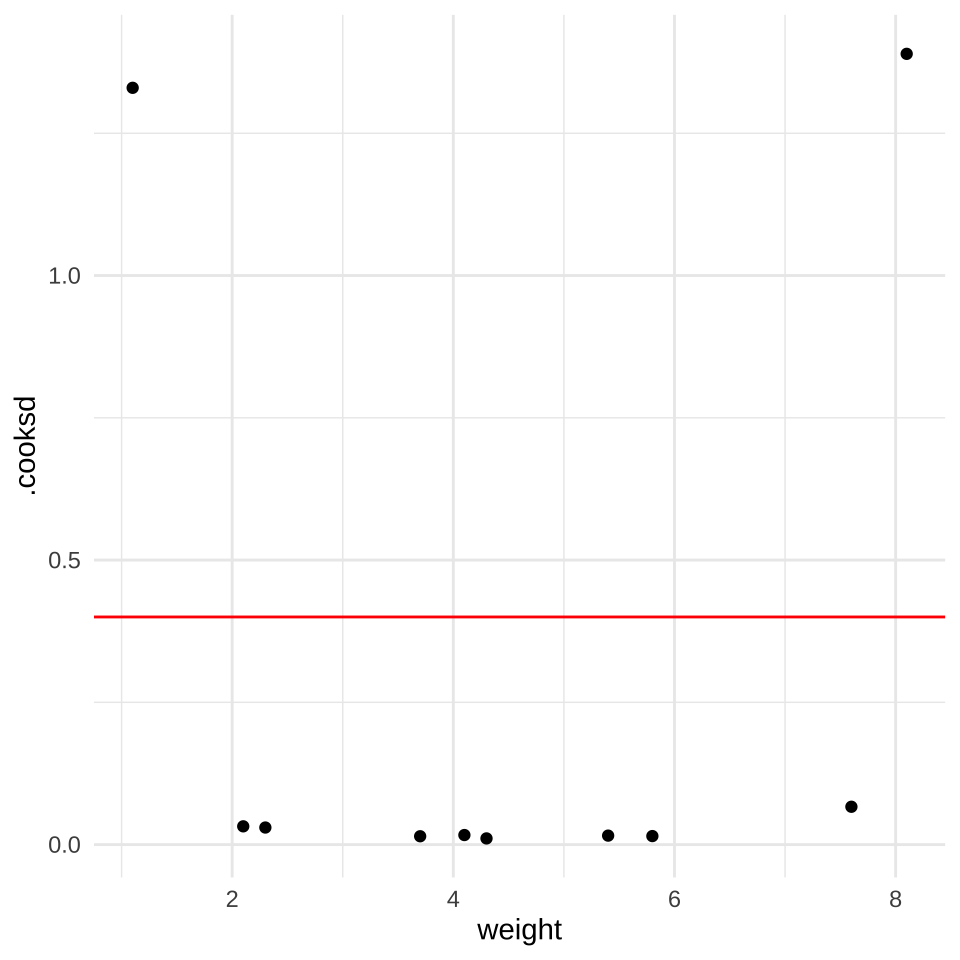
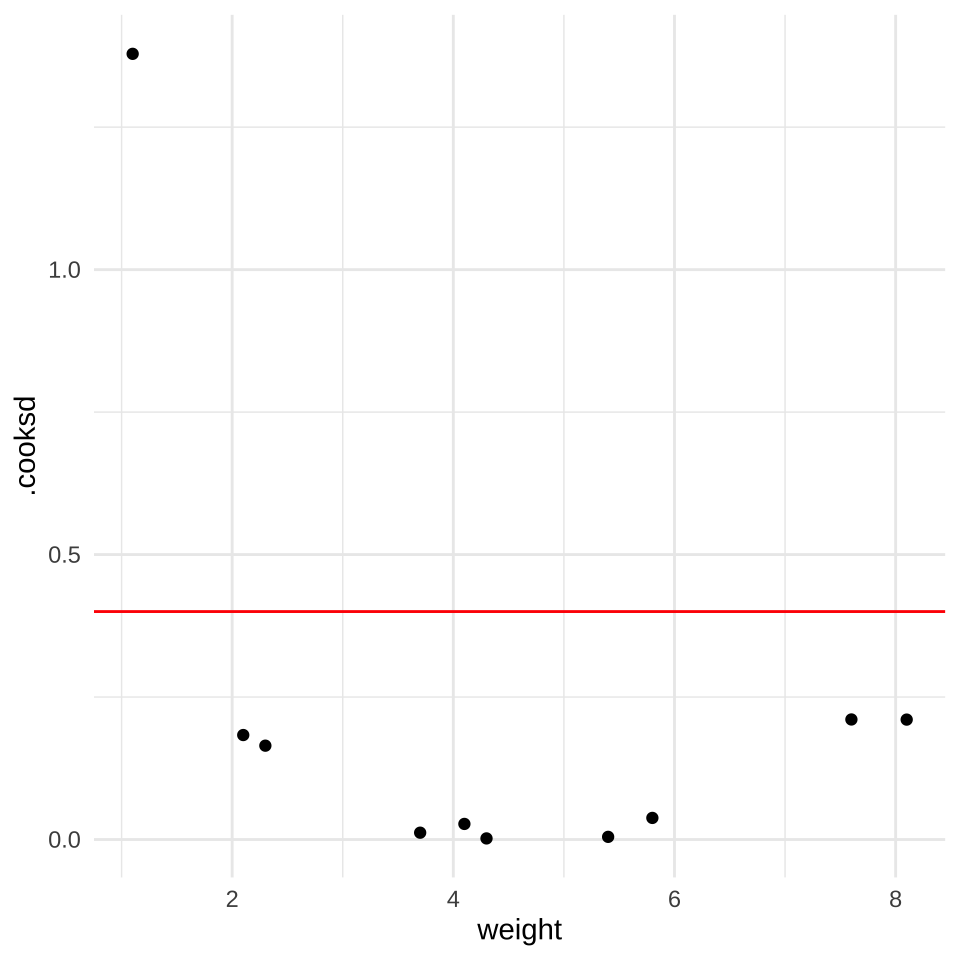
added text and ideas

diff --git a/docs/stat-modeling-outlier.html b/docs/stat-modeling-outlier.html
@@ -752,7 +752,7 @@ div.csl-indent {
 
 </header>
 
-<p><em>Letzte Änderung am 19. January 2024 um 11:20:04</em></p>
+<p><em>Letzte Änderung am 19. January 2024 um 21:16:35</em></p>
 <blockquote class="blockquote">
 <p><em>“You should be far more concentrated with your current trajectory than with your current results” — Atomic Habits’</em></p>
 </blockquote>
@@ -1068,15 +1068,15 @@ Weitere Tutorien für das Finden von Ausreißern
 </tr>
 <tr class="even">
 <td style="text-align: center;">5.1</td>
-<td style="text-align: center;">34</td>
+<td style="text-align: center;">21</td>
 </tr>
 <tr class="odd">
 <td style="text-align: center;">7.9</td>
-<td style="text-align: center;">35</td>
+<td style="text-align: center;">25</td>
 </tr>
 <tr class="even">
 <td style="text-align: center;">3.1</td>
-<td style="text-align: center;">36</td>
+<td style="text-align: center;">31</td>
 </tr>
 <tr class="odd">
 <td style="text-align: center;">4.3</td>
@@ -1101,7 +1101,7 @@ Weitere Tutorien für das Finden von Ausreißern
 <tbody>
 <tr class="odd">
 <td style="text-align: center;">1.1</td>
-<td style="text-align: center;">190</td>
+<td style="text-align: center;">56</td>
 </tr>
 <tr class="even">
 <td style="text-align: center;">2.3</td>
@@ -1121,11 +1121,11 @@ Weitere Tutorien für das Finden von Ausreißern
 </tr>
 <tr class="even">
 <td style="text-align: center;">5.4</td>
-<td style="text-align: center;">24</td>
+<td style="text-align: center;">22</td>
 </tr>
 <tr class="odd">
 <td style="text-align: center;">7.6</td>
-<td style="text-align: center;">25</td>
+<td style="text-align: center;">18</td>
 </tr>
 <tr class="even">
 <td style="text-align: center;">4.3</td>
@@ -1133,11 +1133,11 @@ Weitere Tutorien für das Finden von Ausreißern
 </tr>
 <tr class="odd">
 <td style="text-align: center;">5.8</td>
-<td style="text-align: center;">28</td>
+<td style="text-align: center;">24</td>
 </tr>
 <tr class="even">
 <td style="text-align: center;">8.1</td>
-<td style="text-align: center;">180</td>
+<td style="text-align: center;">2</td>
 </tr>
 </tbody>
 </table>
@@ -1182,16 +1182,16 @@ Weitere Tutorien für das Finden von Ausreißern
 <pre><code># A tibble: 10 × 2
    weight .cooksd
     &lt;dbl&gt;   &lt;dbl&gt;
- 1    1.1  1.33  
- 2    2.3  0.0300
- 3    2.1  0.0321
- 4    3.7  0.0147
- 5    4.1  0.0168
- 6    5.4  0.0158
- 7    7.6  0.0665
- 8    4.3  0.0108
- 9    5.8  0.0150
-10    8.1  1.39  </code></pre>
+ 1    1.1 1.38   
+ 2    2.3 0.165  
+ 3    2.1 0.183  
+ 4    3.7 0.0120 
+ 5    4.1 0.0274 
+ 6    5.4 0.00467
+ 7    7.6 0.211  
+ 8    4.3 0.00193
+ 9    5.8 0.0379 
+10    8.1 0.210  </code></pre>
 </div>
 </div>
 <p>Zuerst sehen wir, dass die <span class="math inline">\(1\)</span>-ste und die <span class="math inline">\(10\)</span>-te Beobachtung sehr hohe Werte der Cook’schen Distanz haben. Das heist hier ist irgendwas nicht in Ordnung. Das haben wir ja auch so erwartet. Die beiden Beobachtungen sind ja auch unsere erschaffene Ausreißer. Nun brauchen wir noch einen Threshold um zu entscheiden ab wann wir eine Beobachtung als Ausreißer definieren. Es hat sich als “Kulturkonstante” der Wert von <span class="math inline">\(4/n\)</span> als Threshold etabliert.</p>
@@ -1230,24 +1230,23 @@ Weitere Tutorien für das Finden von Ausreißern
 </div>
 <p>Weil es hier am Anfang noch relativ einfach sein soll, entfernen wir einfach die beiden Ausreißer aus unseren Daten. Wir erhalten dann einen kleineren Datensatz mit <span class="math inline">\(n = 8\)</span> Beobachtungen.</p>
 <div class="cell">
-<div class="sourceCode cell-code" id="cb11"><pre class="sourceCode r code-with-copy"><code class="sourceCode r"><span id="cb11-1"><a href="#cb11-1" aria-hidden="true" tabindex="-1"></a>out_tbl <span class="ot">&lt;-</span> out_tbl[<span class="sc">-</span>remove_weight_id,]</span>
-<span id="cb11-2"><a href="#cb11-2" aria-hidden="true" tabindex="-1"></a></span>
-<span id="cb11-3"><a href="#cb11-3" aria-hidden="true" tabindex="-1"></a>out_tbl</span></code><button title="In die Zwischenablage kopieren" class="code-copy-button"><i class="bi"></i></button></pre></div>
+<div class="sourceCode cell-code" id="cb11"><pre class="sourceCode r code-with-copy"><code class="sourceCode r"><span id="cb11-1"><a href="#cb11-1" aria-hidden="true" tabindex="-1"></a>out_tbl[<span class="sc">-</span>remove_weight_id,]</span></code><button title="In die Zwischenablage kopieren" class="code-copy-button"><i class="bi"></i></button></pre></div>
 <div class="cell-output cell-output-stdout">
-<pre><code># A tibble: 8 × 2
+<pre><code># A tibble: 9 × 2
   weight jump_length
    &lt;dbl&gt;       &lt;dbl&gt;
 1    2.3          23
 2    2.1          24
 3    3.7          23
 4    4.1          19
-5    5.4          24
-6    7.6          25
+5    5.4          22
+6    7.6          18
 7    4.3          26
-8    5.8          28</code></pre>
+8    5.8          24
+9    8.1           2</code></pre>
 </div>
 </div>
-<p>Du siehst, dieser Zugang an die Detektion von Ausreißern ist sehr simple. Wir schauen einfach auf die Cook’sche Distanz und haben so einen schnellen Überblick. Ich empfehle auch gerne dieses Vorgehen um einmal einen Überblick über die Daten zu erhalten. Leider leifern nicht alle Modelle eine Cook’sche Distanz, daher müssen wir uns jetzt etwas strecken und noch andere Verfahren einmal ausprobieren.</p>
+<p>Du siehst, dieser Zugang an die Detektion von Ausreißern ist sehr simple. Wir schauen einfach auf die Cook’sche Distanz und haben so einen schnellen Überblick. Ich empfehle auch gerne dieses Vorgehen um einmal einen Überblick über die Daten zu erhalten. Leider liefern nicht alle Modelle eine Cook’sche Distanz, daher müssen wir uns jetzt etwas strecken und noch andere Verfahren einmal ausprobieren.</p>
 </section>
 <section id="ausreißer-mit-leverage-deu.-hebelwirkung" class="level2" data-number="41.4">
 <h2 data-number="41.4" class="anchored" data-anchor-id="ausreißer-mit-leverage-deu.-hebelwirkung"><span class="header-section-number">41.4</span> Ausreißer mit <em>leverage</em> (deu. <em>Hebelwirkung</em>)</h2>
@@ -1256,19 +1255,22 @@ Weitere Tutorien für das Finden von Ausreißern
 </div>
 <div class="cell">
 <div class="sourceCode cell-code" id="cb14"><pre class="sourceCode r code-with-copy"><code class="sourceCode r"><span id="cb14-1"><a href="#cb14-1" aria-hidden="true" tabindex="-1"></a>fit_leverage <span class="sc">%&gt;%</span> </span>
-<span id="cb14-2"><a href="#cb14-2" aria-hidden="true" tabindex="-1"></a>  <span class="fu">augment</span>()</span></code><button title="In die Zwischenablage kopieren" class="code-copy-button"><i class="bi"></i></button></pre></div>
+<span id="cb14-2"><a href="#cb14-2" aria-hidden="true" tabindex="-1"></a>  <span class="fu">augment</span>() <span class="sc">%&gt;%</span> </span>
+<span id="cb14-3"><a href="#cb14-3" aria-hidden="true" tabindex="-1"></a>  <span class="fu">select</span>(jump_length, weight, .hat, .cooksd)</span></code><button title="In die Zwischenablage kopieren" class="code-copy-button"><i class="bi"></i></button></pre></div>
 <div class="cell-output cell-output-stdout">
-<pre><code># A tibble: 8 × 8
-  jump_length weight .fitted .resid  .hat .sigma .cooksd .std.resid
-        &lt;dbl&gt;  &lt;dbl&gt;   &lt;dbl&gt;  &lt;dbl&gt; &lt;dbl&gt;  &lt;dbl&gt;   &lt;dbl&gt;      &lt;dbl&gt;
-1          23    2.3    22.8  0.160 0.315   2.86 0.00126     0.0741
-2          24    2.1    22.7  1.27  0.353   2.77 0.0995      0.604 
-3          23    3.7    23.6 -0.609 0.147   2.85 0.00547    -0.252 
-4          19    4.1    23.8 -4.83  0.129   1.68 0.291      -1.98  
-5          24    5.4    24.5 -0.542 0.167   2.85 0.00517    -0.227 
-6          25    7.6    25.8 -0.751 0.558   2.82 0.118      -0.432 
-7          26    4.3    23.9  2.06  0.126   2.69 0.0512      0.844 
-8          28    5.8    24.8  3.24  0.207   2.35 0.253       1.39  </code></pre>
+<pre><code># A tibble: 10 × 4
+   jump_length weight  .hat .cooksd
+         &lt;dbl&gt;  &lt;dbl&gt; &lt;dbl&gt;   &lt;dbl&gt;
+ 1          56    1.1 0.334 1.38   
+ 2          23    2.3 0.196 0.165  
+ 3          24    2.1 0.215 0.183  
+ 4          23    3.7 0.112 0.0120 
+ 5          19    4.1 0.103 0.0274 
+ 6          22    5.4 0.119 0.00467
+ 7          18    7.6 0.307 0.211  
+ 8          26    4.3 0.100 0.00193
+ 9          24    5.8 0.138 0.0379 
+10           2    8.1 0.377 0.210  </code></pre>
 </div>
 </div>
 <dl>
@@ -1277,6 +1279,7 @@ Weitere Tutorien für das Finden von Ausreißern
 <p>Im Allgemeinen sollte ein Punkt mit einer Hebelwirkung von mehr als <span class="math inline">\((2k+2)/n\)</span> sorgfältig geprüft werden, wobei <span class="math inline">\(k\)</span> die Anzahl der Prädiktorvariablen und <span class="math inline">\(n\)</span> die Anzahl der Beobachtungen ist.</p>
 </dd>
 </dl>
+<p>In unserem Fall wäre dann <span class="math inline">\(k = 1\)</span> sowie <span class="math inline">\(n = 10\)</span>, so dass wir auf einen Grenzwert von <span class="math inline">\((2\cdot 1 +2)/10 = 0.4\)</span> kommen, wie auch schon bei Cook’s Distanz.</p>
 </section>
 <section id="ausreißer-mit-performance" class="level2" data-number="41.5">
 <h2 data-number="41.5" class="anchored" data-anchor-id="ausreißer-mit-performance"><span class="header-section-number">41.5</span> Ausreißer mit <code>{performance}</code></h2>
